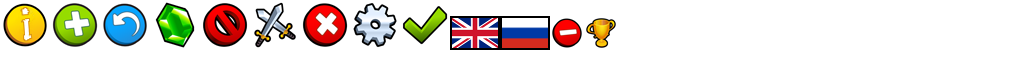
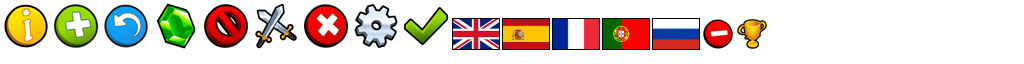
Added Spanish, Portuguese and French languages

Changed region(s): [[0.0, 0.0312, 0.75, 0.7812]]

diff --git a/core/src/ru/mitrakov/self/rush/screens/ScreenLogin.java b/core/src/ru/mitrakov/self/rush/screens/ScreenLogin.java
@@ -34,8 +34,11 @@ public class ScreenLogin extends LocalizableScreen {
     private final Label lblPassword;
     private final Label lblEmail;
     private final Image imgValid;
-    private final Drawable textureEng;
-    private final Drawable textureRus;
+    private final Drawable textureEn;
+    private final Drawable textureRu;
+    private final Drawable textureEs;
+    private final Drawable texturePt;
+    private final Drawable textureFr;
     private final Drawable textureValid;
     private final Drawable textureInvalid;
 
@@ -51,13 +54,20 @@ public class ScreenLogin extends LocalizableScreen {
         assert i18nb != null;
         i18n = i18nb;
 
-        TextureRegion regionEng = atlasMenu.findRegion("eng");
-        TextureRegion regionRus = atlasMenu.findRegion("rus");
+        TextureRegion regionEn = atlasMenu.findRegion("en");
+        TextureRegion regionRu = atlasMenu.findRegion("ru");
+        TextureRegion regionEs = atlasMenu.findRegion("es");
+        TextureRegion regionPt = atlasMenu.findRegion("pt");
+        TextureRegion regionFr = atlasMenu.findRegion("fr");
         TextureRegion regionValid = atlasMenu.findRegion("valid");
         TextureRegion regionInvalid = atlasMenu.findRegion("invalid");
-        assert regionValid != null && regionInvalid != null && regionEng != null && regionRus != null;
-        textureEng = new TextureRegionDrawable(regionEng);
-        textureRus = new TextureRegionDrawable(regionRus);
+        assert regionEn != null && regionRu != null && regionEs != null && regionPt != null && regionFr != null;
+        assert regionValid != null && regionInvalid != null;
+        textureEn = new TextureRegionDrawable(regionEn);
+        textureRu = new TextureRegionDrawable(regionRu);
+        textureEs = new TextureRegionDrawable(regionEs);
+        texturePt = new TextureRegionDrawable(regionPt);
+        textureFr = new TextureRegionDrawable(regionFr);
         textureValid = new TextureRegionDrawable(regionValid);
         textureInvalid = new TextureRegionDrawable(regionInvalid);
 
@@ -221,20 +231,47 @@ public class ScreenLogin extends LocalizableScreen {
     private Actor createLangTable(AudioManager audioManager) {
         assert audioManager != null;
         Table tableLang = new Table().padRight(10).padTop(10);
-        tableLang.add(new ImageButtonFeat(textureEng, audioManager) {{
+        tableLang.add(new ImageButtonFeat(textureEn, audioManager) {{
             addListener(new ChangeListener() {
                 @Override
                 public void changed(ChangeEvent event, Actor actor) {
-                    model.languageEn = true;
+                    model.language = Model.Language.English;
                     game.updateLocale();
                 }
             });
         }}).spaceRight(10);
-        tableLang.add(new ImageButtonFeat(textureRus, audioManager) {{
+        tableLang.add(new ImageButtonFeat(textureRu, audioManager) {{
             addListener(new ChangeListener() {
                 @Override
                 public void changed(ChangeEvent event, Actor actor) {
-                    model.languageEn = false;
+                    model.language = Model.Language.Russian;
+                    game.updateLocale();
+                }
+            });
+        }}).spaceRight(10);
+        tableLang.add(new ImageButtonFeat(textureEs, audioManager) {{
+            addListener(new ChangeListener() {
+                @Override
+                public void changed(ChangeEvent event, Actor actor) {
+                    model.language = Model.Language.Spanish;
+                    game.updateLocale();
+                }
+            });
+        }}).spaceRight(10);
+        tableLang.add(new ImageButtonFeat(texturePt, audioManager) {{
+            addListener(new ChangeListener() {
+                @Override
+                public void changed(ChangeEvent event, Actor actor) {
+                    model.language = Model.Language.Portuguese;
+                    game.updateLocale();
+                }
+            });
+        }}).spaceRight(10);
+        tableLang.add(new ImageButtonFeat(textureFr, audioManager) {{
+            addListener(new ChangeListener() {
+                @Override
+                public void changed(ChangeEvent event, Actor actor) {
+                    model.language = Model.Language.French;
                     game.updateLocale();
                 }
             });

diff --git a/core/src/ru/mitrakov/self/rush/RushClient.java b/core/src/ru/mitrakov/self/rush/RushClient.java
@@ -30,6 +30,9 @@ public class RushClient extends Game implements Localizable {
     private /*final*/ LocalizableScreen screenBattle;
     private /*final*/ I18NBundle i18nEn;
     private /*final*/ I18NBundle i18nRu;
+    private /*final*/ I18NBundle i18nEs;
+    private /*final*/ I18NBundle i18nPt;
+    private /*final*/ I18NBundle i18nFr;
 
     public RushClient(PsObject psObject) {
         this.psObject = psObject;
@@ -62,6 +65,9 @@ public class RushClient extends Game implements Localizable {
 
         i18nEn = I18NBundle.createBundle(Gdx.files.internal("i18n/bundle"), new Locale("en"));
         i18nRu = I18NBundle.createBundle(Gdx.files.internal("i18n/bundle"), new Locale("ru"));
+        i18nEs = I18NBundle.createBundle(Gdx.files.internal("i18n/bundle"), new Locale("es"));
+        i18nPt = I18NBundle.createBundle(Gdx.files.internal("i18n/bundle"), new Locale("pt"));
+        i18nFr = I18NBundle.createBundle(Gdx.files.internal("i18n/bundle"), new Locale("fr"));
 
         skin = new Skin(Gdx.files.internal("skin/uiskin.json"));
         audioManager = new AudioManager("theme");
@@ -133,6 +139,24 @@ public class RushClient extends Game implements Localizable {
     }
 
     public void updateLocale() {
-        onLocaleChanged(model.languageEn ? i18nEn : i18nRu);
+        switch (model.language) {
+            case English:
+                onLocaleChanged(i18nEn);
+                break;
+            case Russian:
+                onLocaleChanged(i18nRu);
+                break;
+            case Spanish:
+                onLocaleChanged(i18nEs);
+                break;
+            case Portuguese:
+                onLocaleChanged(i18nPt);
+                break;
+            case French:
+                onLocaleChanged(i18nFr);
+                break;
+            default:
+                onLocaleChanged(i18nEn);
+        }
     }
 }

diff --git a/core/src/ru/mitrakov/self/rush/model/Model.java b/core/src/ru/mitrakov/self/rush/model/Model.java
@@ -109,7 +109,10 @@ public class Model {
         PROMOCODE_DONE     // 37
     }
 
+    public enum Language {English, Russian, Spanish, Portuguese, French}
+
     public enum Character {None, Rabbit, Hedgehog, Squirrel, Cat}
+
     public enum HurtCause {Poisoned, Sunk, Soaked, Devoured, Exploded}
 
     /**
@@ -192,7 +195,7 @@ public class Model {
     // ================
 
     public volatile boolean notifyNewBattles = true;
-    public volatile boolean languageEn = true; // convert to enum in the future
+    public volatile Language language = Language.English;
 
     // ================================
     // === PRIVATE STATIC CONSTANTS ===
@@ -262,7 +265,11 @@ public class Model {
             if (s != null) {
                 String[] settings = s.split(" ");
                 if (settings.length > 2) {
-                    languageEn = settings[0].equals("e");
+                    try {
+                        language = Language.valueOf(settings[0]);
+                    } catch (IllegalArgumentException e) {
+                        language = Language.English;
+                    }
                     notifyNewBattles = settings[1].equals("1");
                     name = settings[2];
                     bus.raise(new EventBus.NameChangedEvent(name));
@@ -279,7 +286,7 @@ public class Model {
      */
     public void saveSettings() {
         if (fileReader != null) {
-            String s = String.format("%s %s %s %s", languageEn ? "e" : "r", notifyNewBattles ? "1" : "0", name, hash);
+            String s = String.format("%s %s %s %s", language, notifyNewBattles ? "1" : "0", name, hash);
             fileReader.write(SETTINGS_FILE, s);
         }
     }

diff --git a/core/src/ru/mitrakov/self/rush/dialogs/DialogSettings.java b/core/src/ru/mitrakov/self/rush/dialogs/DialogSettings.java
@@ -59,8 +59,8 @@ public class DialogSettings extends DialogFeat {
     @Override
     public Dialog show(Stage stage) {
         // 'setChecked()' must be called here (not in constructor), because parameters might be changed outside
-        btnEng.setChecked(model.languageEn);
-        btnRus.setChecked(!model.languageEn);
+        btnEng.setChecked(model.language == Model.Language.English);
+        btnRus.setChecked(model.language == Model.Language.Russian);
         btnNotifyYes.setChecked(model.notifyNewBattles);
         btnNotifyNo.setChecked(!model.notifyNewBattles);
 
@@ -107,13 +107,13 @@ public class DialogSettings extends DialogFeat {
         btnEng.addListener(new ChangeListener() {
             @Override
             public void changed(ChangeEvent event, Actor actor) {
-                model.languageEn = true;
+                model.language = Model.Language.English;
             }
         });
         btnRus.addListener(new ChangeListener() {
             @Override
             public void changed(ChangeEvent event, Actor actor) {
-                model.languageEn = false;
+                model.language = Model.Language.Russian;
             }
         });
         new ButtonGroup<Button>(btnEng, btnRus);
